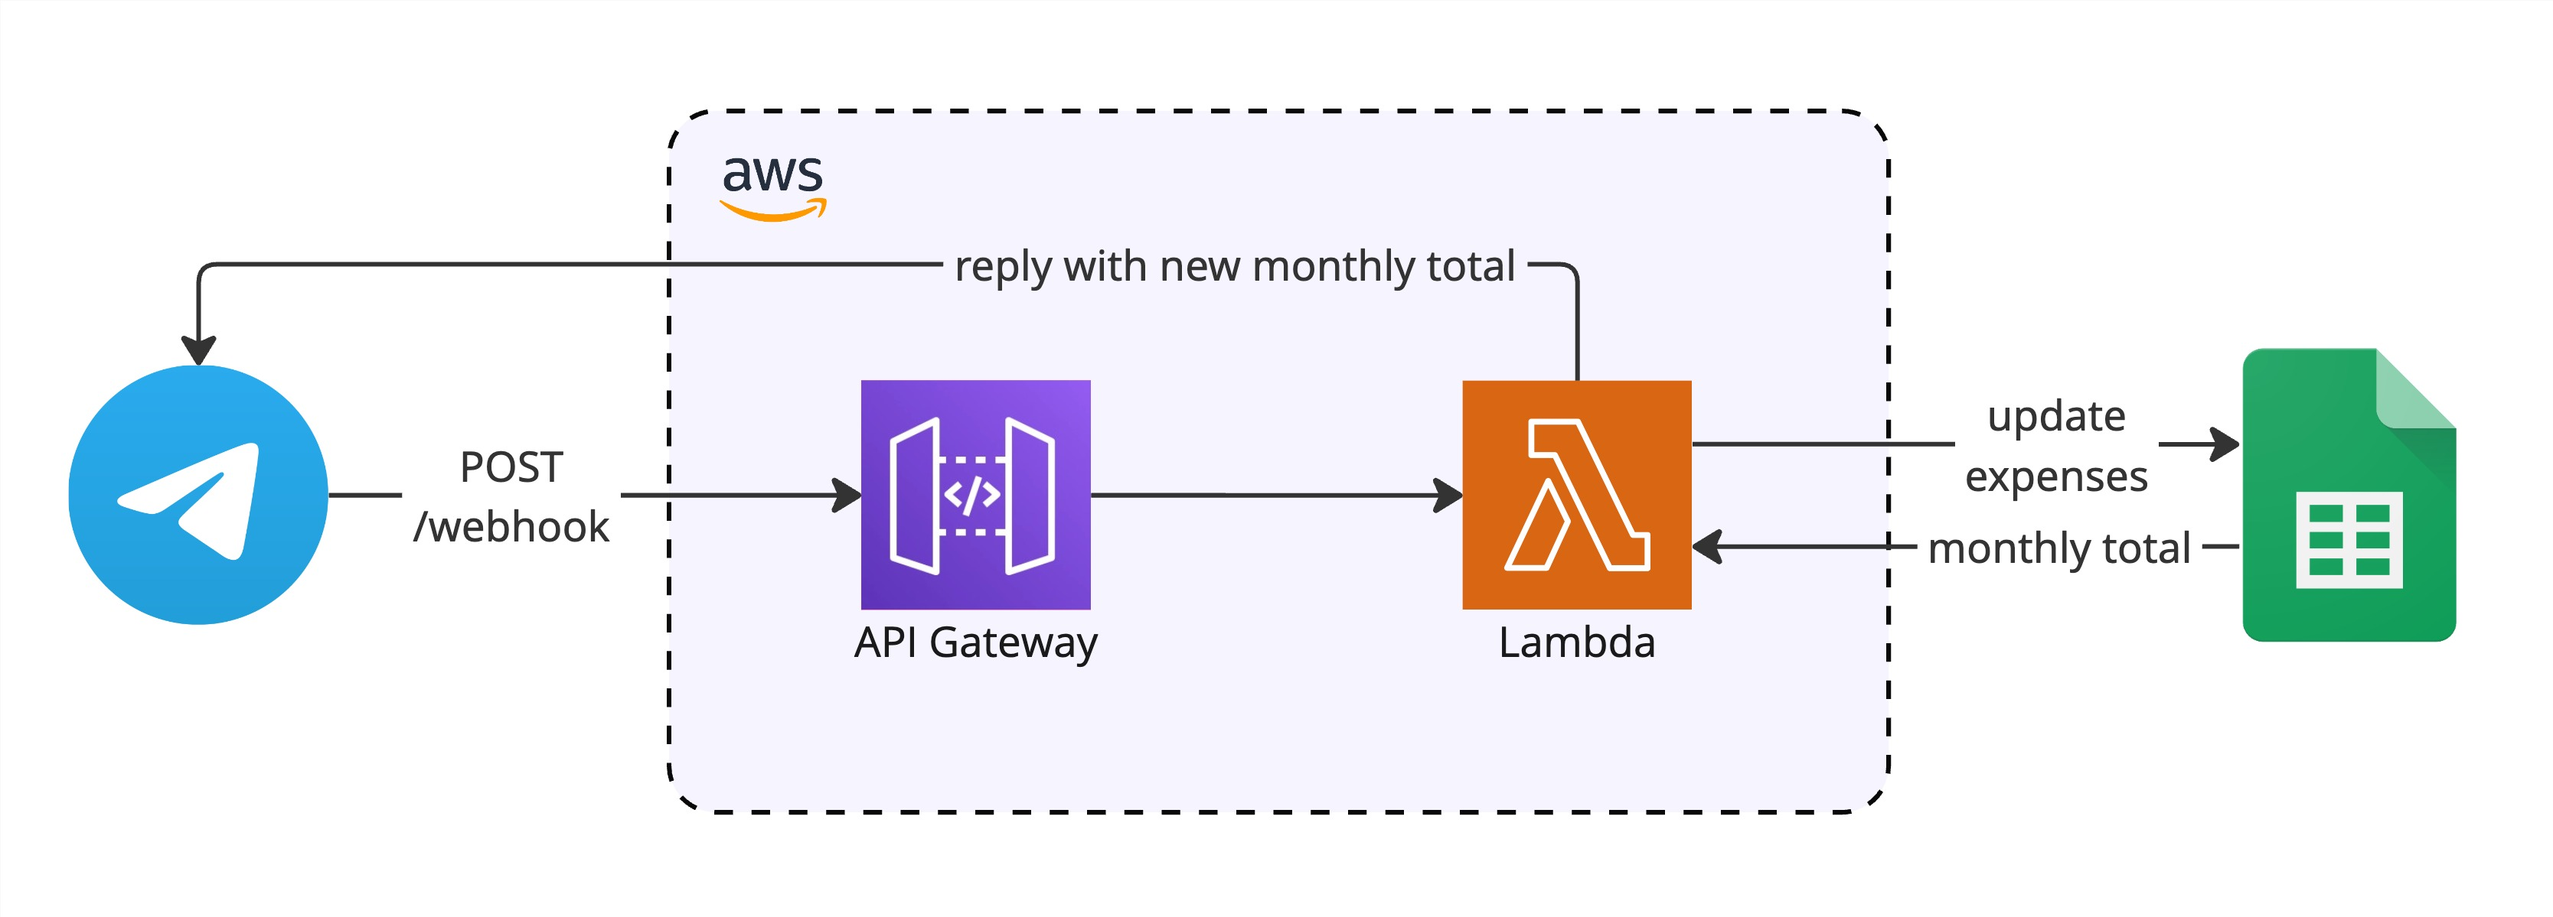
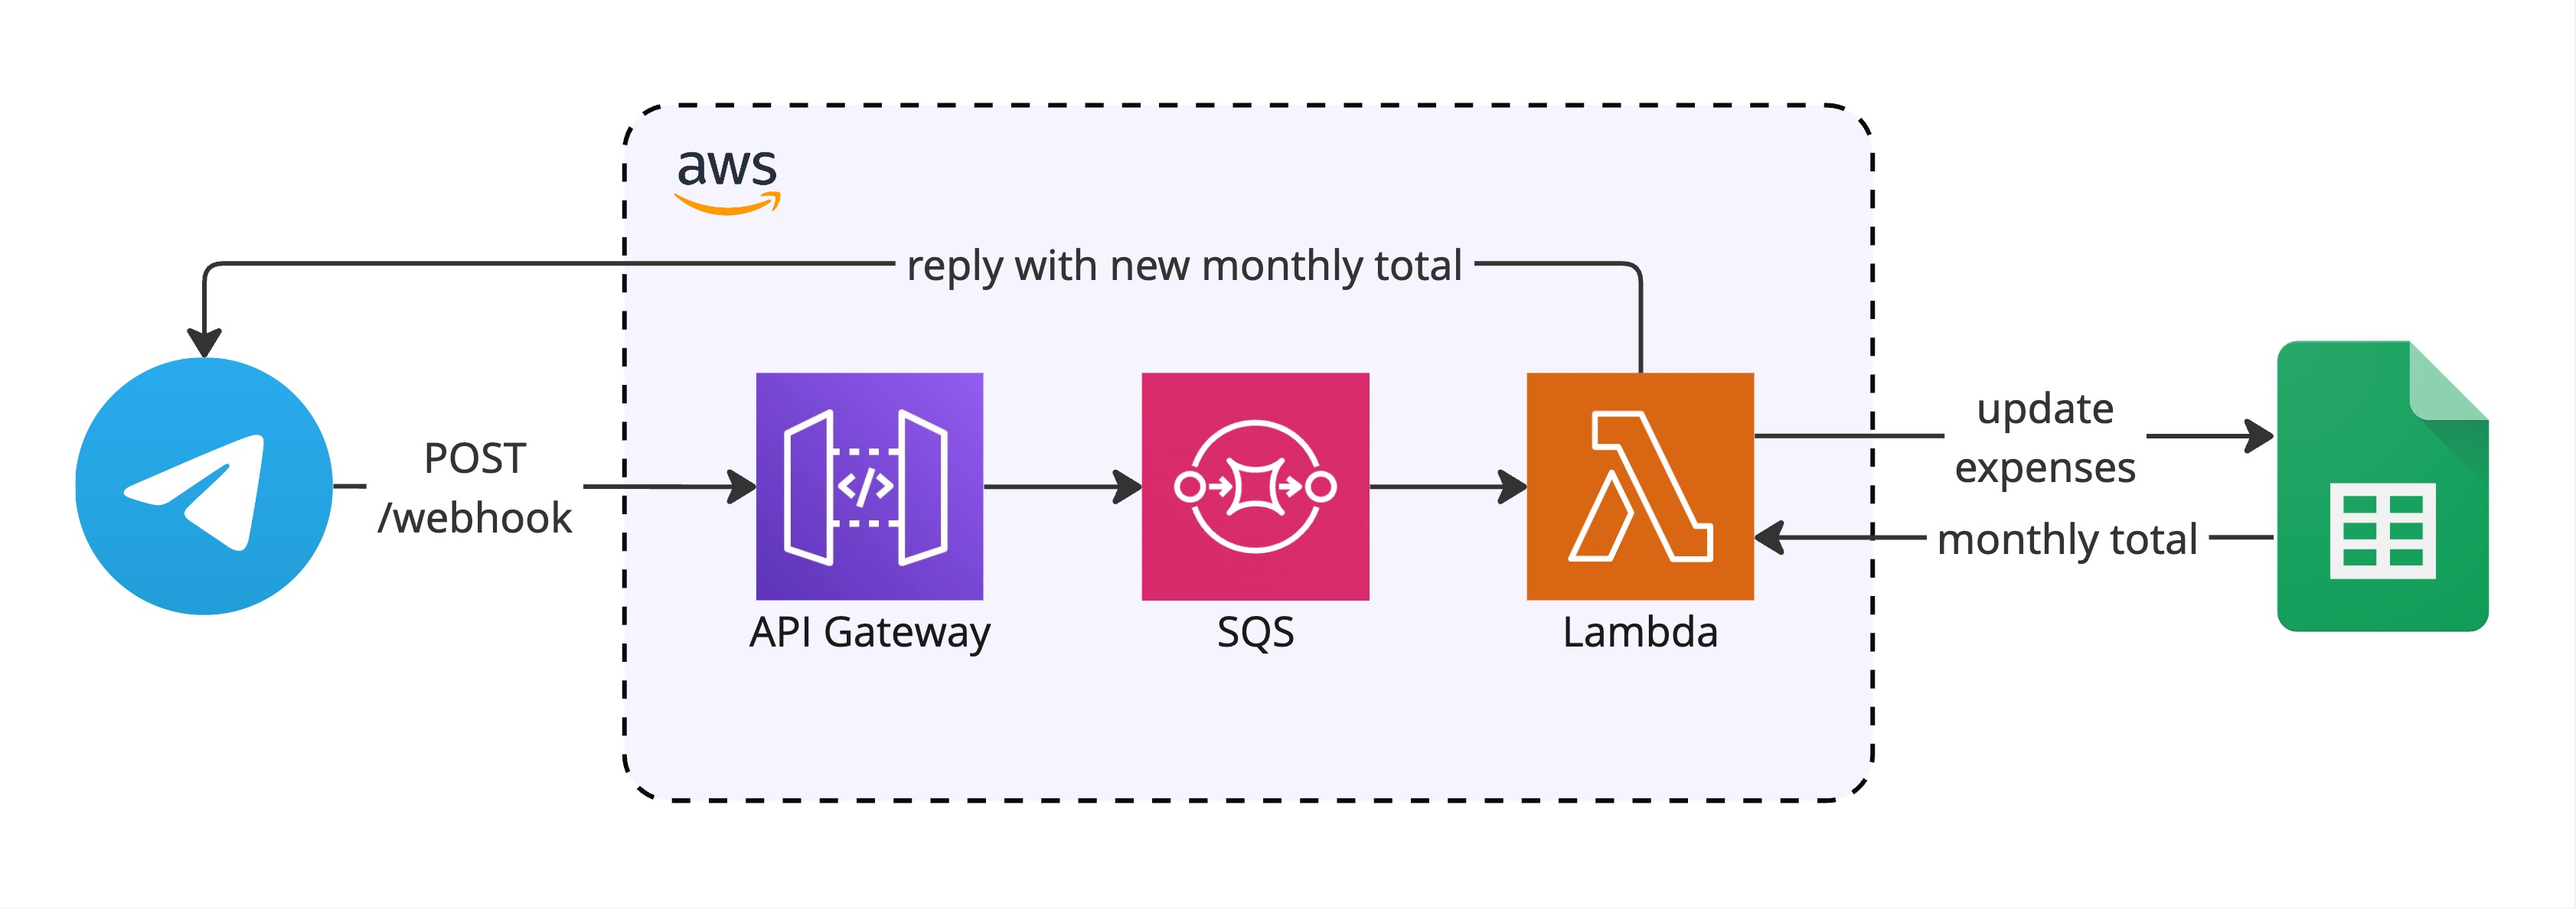
feat: update diagram

diff --git a/README.md b/README.md
@@ -24,7 +24,7 @@ Telegram bot that processes expense messages and updates my personal budget trac
 
 ## Prerequisites
 
-- [mise](https://mise.jdx.dev/)
+- [mise-en-place](https://mise.jdx.dev/)
 - Docker
 - AWS account
 - Telegram bot token (from [@BotFather](https://t.me/botfather))
@@ -50,7 +50,7 @@ The following environment variables are required:
 
 `GOOGLE_SPREADSHEET_ID` - ID of your Google Sheets expense tracker
 
-`LOGGING_LEVEL` - Logging verbosity (DEBUG, INFO, WARN, ERROR)
+`LOG_LEVEL` - Logging verbosity (DEBUG, INFO, WARN, ERROR)
 
 ## Deployment
 
@@ -115,9 +115,7 @@ curl -X POST "https://api.telegram.org/bot<BOT_TOKEN>/setWebhook" -d "url=<API_G
 - [Docker](https://www.docker.com/)
 - [Terraform](https://developer.hashicorp.com/terraform/)
 - [Google Sheets API](https://developers.google.com/sheets/api)
-- [AWS Lambda](https://aws.amazon.com/lambda/)
-- [AWS API Gateway](https://aws.amazon.com/api-gateway/)
-- [AWS ECR](https://aws.amazon.com/ecr/)
+- AWS (Lambda, SQS, API Gateway, ECR)
 
 ## License
 
